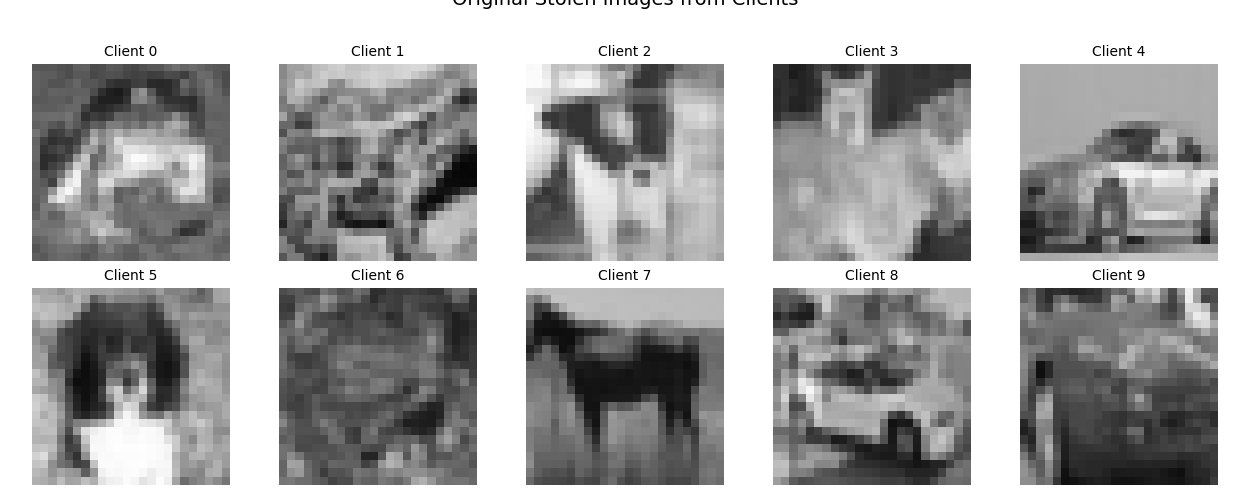
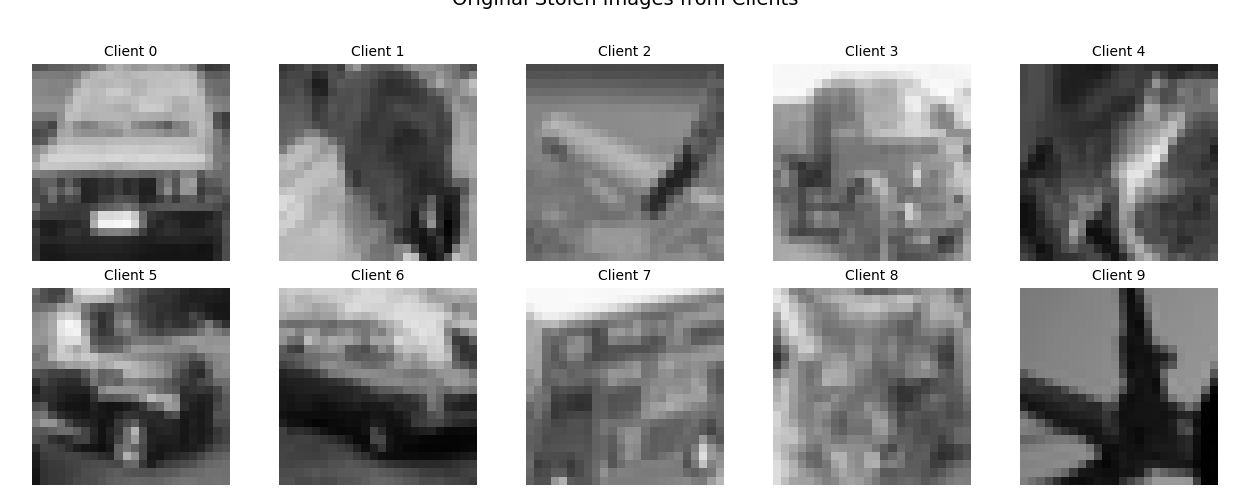
revise detail :art:

diff --git a/src/attack_utils.py b/src/attack_utils.py
@@ -110,7 +110,7 @@ def get_ordered_target_images_np(dataset, user_groups, num_users):
     
     # 获取原始数据集的 transform，以便进行反向操作（去标准化、转换格式）
     # train_dataset 是通过 get_raw_dataset 获取的，它只做了 ToTensor 和裁剪，
-    # 可以直接处理 Tensor 并转换为 NumPy 灰度格式 [0, 255]。
+    # 直接处理 Tensor 并转换为 NumPy 灰度格式 [0, 255]。
 
     # 提取并转换为 NumPy 格式 (H, W)
     for idx in target_indices:
@@ -128,10 +128,10 @@ def get_ordered_target_images_np(dataset, user_groups, num_users):
             else: 
                 # 彩图 (3, H, W) -> (H, W, 3)
                 image_np = image_tensor.permute(1, 2, 0).numpy()
-                # 转换为灰度 (使用简单的平均法，或确保在外部实现一致的 rbg_to_grayscale_pt 逻辑)
+                # 转换为灰度
                 if image_np.shape[-1] == 3:
-                    # 简单灰度转换 (确保和 prepare_cvea_stolen_data_pt 逻辑一致)
-                    image_np = np.dot(image_np[...,:3], [0.2989, 0.5870, 0.1140]) # ITU-R BT.601
+                    # 灰度转换 
+                    image_np = np.dot(image_np[...,:3], [0.2989, 0.5870, 0.1140])
         else: # 已经是 (H, W) 
             image_np = image_tensor.numpy()
         
@@ -216,10 +216,10 @@ def prepare_cvea_stolen_data(net_glob, dataset_train, args, user_groups):
     print(f"\n[CVEA Attack] Preparing stolen data with gama={args.gama}")
 
     # 获取目标权重总数
-    num_target_params = 0
-    # 攻击只针对维度 > 1 的权重 (Conv/Linear weights)
-    for name, param in net_glob.named_parameters():
-        num_target_params += param.numel()
+    num_target_params = args.num_users * 576  # 每个客户端对应一张 24x24 的图片
+    # 获取模型全部参数数量
+    # for name, param in net_glob.named_parameters():
+    #     num_target_params += param.numel()
 
     if num_target_params == 0:
         print('Error: Model has no suitable parameters for CVEA attack.')
@@ -229,7 +229,7 @@ def prepare_cvea_stolen_data(net_glob, dataset_train, args, user_groups):
 
     # 按客户端顺序构建索引列表
     
-    # 假设每个客户端至少有一张图片，且我们只关注每个客户端的第一张图片
+    # 每个客户端至少有一张图片，且我们只关注每个客户端的第一张图片
     # 创建一个空的索引列表，用于存储目标图片的索引
     target_indices = []
     
@@ -238,8 +238,7 @@ def prepare_cvea_stolen_data(net_glob, dataset_train, args, user_groups):
         # user_groups[i] 是一个集合，包含客户端 i 的所有数据索引
         try:
             # 找到客户端 i 拥有的第一个索引
-            # set 是无序的，使用 list(set)[0] 可能会带来细微的顺序不确定性，
-            # 但在 IID/Non-IID 分组后，通常集合中的第一个元素是可重复访问的。
+            # 在 IID/Non-IID 分组后，集合中的第一个元素是可重复访问的。
             first_image_index = list(user_groups[i])[0]
             target_indices.append(first_image_index)
         except IndexError:

diff --git a/src/federated_main.py b/src/federated_main.py
@@ -230,7 +230,6 @@ if __name__ == '__main__':
     
     print('\n Total Run Time: {0:0.4f}'.format(time.time()-start_time))
 
-    # --- PLOTTING ---
     import matplotlib
     import matplotlib.pyplot as plt
     matplotlib.use('Agg')

diff --git a/temp.md b/temp.md
@@ -1,0 +1,8 @@
+1. GPU 0 -- tmux 0 -- gama 0.5 -- cifar 500
+2. GPU 1 -- tmux 1 -- gama 0.1 -- cifar 500
+3. GPU 2
+4. GPU 3
+5. GPU 4
+6. GPU 5
+7. GPU 6
+8. GPU 7
